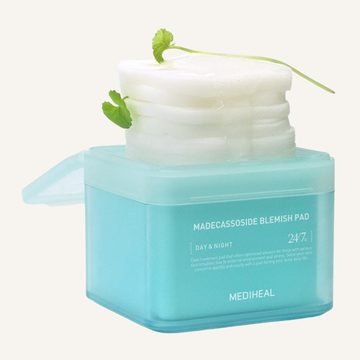
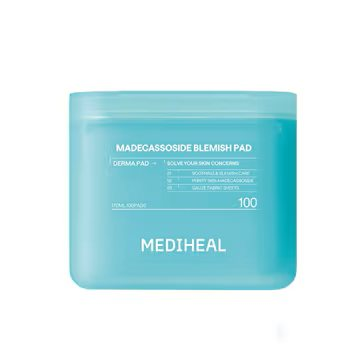
Actualizar fotos de 26 productos (toners, ampollas y serums) con galeria de 2 imagenes
Se reemplazan las fotos placeholder por las imagenes reales para:
AXIS-Y Dark Spot Glow Serum/Toner y Spot Difference Treatment, Anua
7-Rice Ceramide Serum, Azelaic+Hyaluron, Green Lemon Vita C, Heartleaf
Soothing Ampoule, Niacinamide+TXA Serum y Peach 70% Niacin Serum,
Celimax Noni Ampoule, Medicube Collagen Glow Booster/Bubble Serum,
Exosome Shot Pore Serum, Pink PDRN One Day Serum, Zero Pore One-Day
Pack, Mediheal Madecassoside y Vitamide Pads, Round Lab Dokdo Toner,
y los 6 productos Skin1004 Centella Madagascar (Ampoule, Hyalu-Cica,
Hyalu-Cica Toner, Poremizing Fresh Ampoule, Poremizing Toner,
Tea-Trica Purifying Toner, Tea-Trica Relief Ampoule, Toning Toner).

diff --git a/js/catalog.js b/js/catalog.js
@@ -92,34 +92,34 @@ const CATALOG = [
   {key:"medicube-pdrn-niacinamide-milky-toner", name:"Medicube PDRN Pink Niacinamide Milky Toner", size:"150 ml", price:28700, retail:49000, img:"images/medicube-pdrn-niacinamide-milky-toner.jpg", images:["images/medicube-pdrn-niacinamide-milky-toner.jpg","images/medicube-pdrn-niacinamide-milky-toner-2.jpg"], benefit:"Tónico de rápida absorción con PDRN y niacinamida que hidrata, ilumina, unifica el tono y fortalece la barrera cutánea para un efecto glass skin.", skin:"Ideal para pieles secas, apagadas o sensibles.", ingredients:"PDRN de salmón, niacinamida, ceramida NP, pantenol y ácido hialurónico.", modo:"Después de la limpieza, aplicar con las manos o un algodón sobre el rostro y dar suaves toques hasta su completa absorción."},
   {key:"anua-peach77-niacin-essence-toner", name:"Anua Peach 77% Niacin Essence Toner", size:"250 ml", price:28650, retail:49000, img:"images/anua-peach77-niacin-essence-toner.jpg", images:["images/anua-peach77-niacin-essence-toner.jpg","images/anua-peach77-niacin-essence-toner-2.jpg"], benefit:"Tónico con esencia que hidrata, ilumina y mejora la textura para una piel suave y luminosa.", skin:"Para todo tipo de pieles.", ingredients:"Extracto de durazno (77%), niacinamida, ceramidas fermentadas y ácido hialurónico.", modo:"Aplicar después de la limpieza con las manos o un algodón y dar suaves toques hasta su absorción."},
   {key:"anua-rice-milky-toner", name:"Anua Rice Milky Toner", size:"250 ml", price:28450, retail:49000, img:"images/anua-rice-milky-toner.jpg", images:["images/anua-rice-milky-toner.jpg","images/anua-rice-milky-toner-2.jpg"], benefit:"Tónico lechoso que hidrata, ilumina y fortalece la barrera cutánea, dejando la piel suave y con un brillo natural.", skin:"Para todo tipo de pieles.", ingredients:"Agua de salvado de arroz (70%), ceramidas, niacinamida, pantenol y ácido hialurónico.", modo:"Aplicar después de la limpieza con las manos o un algodón y dar suaves toques hasta su completa absorción."},
-  {key:"mediheal-madecassoside-pads", name:"Mediheal Madecassoside Blemish Pads", size:"100 pads · 170 ml", price:36950, retail:59000, img:"images/mediheal-madecassoside-pads.jpg", benefit:"Pads faciales calmantes impregnados en esencia, diseñados para calmar la piel, reducir rojeces y mejorar imperfecciones mientras hidratan y fortalecen la barrera cutánea.", skin:"Ideal para pieles sensibles, mixtas, con rojeces y tendencia a imperfecciones.", ingredients:"Madecassoside (24%), centella asiática, pantenol, alantoína y ácido hialurónico.", modo:"Después de la limpieza, pasar un pad suavemente por el rostro evitando el contorno de ojos. También puede usarse como mascarilla localizada durante 5-10 minutos."},
-  {key:"mediheal-vitamide-pads", name:"Mediheal Vitamide Brightening Pads", size:"100 pads · 170 ml", price:36950, retail:59000, img:"images/mediheal-vitamide-pads.jpg", benefit:"Rico en vitamina C, aporta luminosidad a la vez que ayuda a combatir las imperfecciones.", skin:"Todo tipo de piel, especialmente opaca, con manchas o tono desigual.", ingredients:"Complejo Vitamide (vitaminas), niacinamida, pantenol, alantoína y ácido hialurónico.", modo:""},
-  {key:"skin1004-madagascar-poremizing-toner", name:"Skin1004 Centella Madagascar Poremizing Toner", size:"210 ml", price:19150, retail:35000, img:"images/skin1004-madagascar-poremizing-toner.jpg", benefit:"Exfoliante y purificante formulado con Centella Asiática de Madagascar y complejo 4-HA (AHA, BHA, PHA y LHA), diseñado para limpiar profundamente los poros, controlar el exceso de sebo y mejorar la textura de la piel.", skin:"Ideal para pieles mixtas, grasas, con poros visibles y textura irregular.", ingredients:"Centella asiática de Madagascar, sal rosa del Himalaya, AHA, PHA, pantenol y ácido hialurónico.", modo:""},
-  {key:"skin1004-madagascar-teatrica-purifying-toner", name:"Skin1004 Centella Madagascar Tea-Trica Purifying Toner", size:"210 ml", price:19150, retail:35000, img:"images/skin1004-madagascar-teatrica-purifying-toner.jpg", benefit:"Tónico facial purificante que ayuda a equilibrar el exceso de grasa, calmar la piel y mantener los poros limpios, dejando una sensación de frescura.", skin:"Para piel grasa, mixta, con tendencia acneica y sensible.", ingredients:"Extracto de Centella Asiática, agua de árbol de té, complejo Tea-Trica, niacinamida y ácido salicílico (BHA).", modo:"Aplicar una cantidad adecuada sobre un algodón o directamente con las manos sobre el rostro limpio, dando suaves toques hasta su completa absorción."},
-  {key:"skin1004-madagascar-hyalucica-toner", name:"Skin1004 Centella Madagascar Hyalu-Cica Toner", size:"210 ml", price:19150, retail:35000, img:"images/skin1004-madagascar-hyalucica-toner.jpg", benefit:"Hidratante y calmante que combina Centella Asiática de Madagascar con ácido hialurónico, diseñado para hidratar en profundidad, calmar la piel y reforzar la barrera cutánea.", skin:"Ideal para pieles que necesitan hidratación constante sin saturarse.", ingredients:"Centella asiática de Madagascar, complejo Hyalu-Cica (ácido hialurónico + centella), niacinamida, ceramidas y pantenol.", modo:""},
-  {key:"skin1004-madagascar-toning-toner", name:"Skin1004 Centella Madagascar Toning Toner", size:"210 ml", price:19150, retail:35000, img:"images/skin1004-madagascar-toning-toner.jpg", benefit:"Tónico exfoliante suave. Hidrata, calma la irritación y mejora la textura al eliminar células muertas, dejando la piel radiante y equilibrada.", skin:"Ideal para pieles sensibles.", ingredients:"Centella asiática de Madagascar, PHA (gluconolactona), niacinamida, ácido hialurónico y pantenol.", modo:"Aplicar una cantidad adecuada sobre un algodón o directamente con las manos sobre el rostro limpio, dando suaves toques hasta su completa absorción."},
-  {key:"roundlab-dokdo-toner", name:"Round Lab 1025 Dokdo Toner", size:"200 ml", price:17150, retail:30000, img:"images/roundlab-dokdo-toner.jpg", benefit:"Textura acuosa ultra ligera, formulado con agua de mar profunda rica en minerales. Ayuda a hidratar, calmar y equilibrar la piel sin dejar sensación pesada. Elimina suavemente células muertas, dejando la piel fresca, suave y revitalizada.", skin:"Ideal para pieles sensibles, deshidratadas y mixtas.", ingredients:"Agua de mar profunda (magnesio, calcio, zinc), pantenol, alantoína, betaína y protease (enzima).", modo:"Aplicar después de la limpieza con las manos o un algodón y distribuir suavemente sobre el rostro hasta su completa absorción."},
-  {key:"axisy-darkspot-glow-toner", name:"AXIS-Y Dark Spot Correcting Glow Toner", size:"125 ml", price:27100, retail:49000, img:"images/axisy-darkspot-glow-toner.jpg", benefit:"Tónico facial iluminador que ayuda a hidratar, unificar el tono de la piel y reducir la apariencia de manchas, dejando un acabado radiante y saludable.", skin:"Para piel normal, seca, mixta, grasa y con manchas o tono desigual.", ingredients:"Glutatión, niacinamida al 5%, ácido hialurónico, extracto de corteza de sauce blanco y pantenol.", modo:"Aplicar una cantidad adecuada sobre el rostro limpio con las manos o un algodón, dando suaves toques hasta su completa absorción."},
+  {key:"mediheal-madecassoside-pads", name:"Mediheal Madecassoside Blemish Pads", size:"100 pads · 170 ml", price:36950, retail:59000, img:"images/mediheal-madecassoside-pads.jpg", images:["images/mediheal-madecassoside-pads.jpg","images/mediheal-madecassoside-pads-2.jpg"], benefit:"Pads faciales calmantes impregnados en esencia, diseñados para calmar la piel, reducir rojeces y mejorar imperfecciones mientras hidratan y fortalecen la barrera cutánea.", skin:"Ideal para pieles sensibles, mixtas, con rojeces y tendencia a imperfecciones.", ingredients:"Madecassoside (24%), centella asiática, pantenol, alantoína y ácido hialurónico.", modo:"Después de la limpieza, pasar un pad suavemente por el rostro evitando el contorno de ojos. También puede usarse como mascarilla localizada durante 5-10 minutos."},
+  {key:"mediheal-vitamide-pads", name:"Mediheal Vitamide Brightening Pads", size:"100 pads · 170 ml", price:36950, retail:59000, img:"images/mediheal-vitamide-pads.jpg", images:["images/mediheal-vitamide-pads.jpg","images/mediheal-vitamide-pads-2.jpg"], benefit:"Rico en vitamina C, aporta luminosidad a la vez que ayuda a combatir las imperfecciones.", skin:"Todo tipo de piel, especialmente opaca, con manchas o tono desigual.", ingredients:"Complejo Vitamide (vitaminas), niacinamida, pantenol, alantoína y ácido hialurónico.", modo:""},
+  {key:"skin1004-madagascar-poremizing-toner", name:"Skin1004 Centella Madagascar Poremizing Toner", size:"210 ml", price:19150, retail:35000, img:"images/skin1004-madagascar-poremizing-toner.jpg", images:["images/skin1004-madagascar-poremizing-toner.jpg","images/skin1004-madagascar-poremizing-toner-2.jpg"], benefit:"Exfoliante y purificante formulado con Centella Asiática de Madagascar y complejo 4-HA (AHA, BHA, PHA y LHA), diseñado para limpiar profundamente los poros, controlar el exceso de sebo y mejorar la textura de la piel.", skin:"Ideal para pieles mixtas, grasas, con poros visibles y textura irregular.", ingredients:"Centella asiática de Madagascar, sal rosa del Himalaya, AHA, PHA, pantenol y ácido hialurónico.", modo:""},
+  {key:"skin1004-madagascar-teatrica-purifying-toner", name:"Skin1004 Centella Madagascar Tea-Trica Purifying Toner", size:"210 ml", price:19150, retail:35000, img:"images/skin1004-madagascar-teatrica-purifying-toner.jpg", images:["images/skin1004-madagascar-teatrica-purifying-toner.jpg","images/skin1004-madagascar-teatrica-purifying-toner-2.jpg"], benefit:"Tónico facial purificante que ayuda a equilibrar el exceso de grasa, calmar la piel y mantener los poros limpios, dejando una sensación de frescura.", skin:"Para piel grasa, mixta, con tendencia acneica y sensible.", ingredients:"Extracto de Centella Asiática, agua de árbol de té, complejo Tea-Trica, niacinamida y ácido salicílico (BHA).", modo:"Aplicar una cantidad adecuada sobre un algodón o directamente con las manos sobre el rostro limpio, dando suaves toques hasta su completa absorción."},
+  {key:"skin1004-madagascar-hyalucica-toner", name:"Skin1004 Centella Madagascar Hyalu-Cica Toner", size:"210 ml", price:19150, retail:35000, img:"images/skin1004-madagascar-hyalucica-toner.jpg", images:["images/skin1004-madagascar-hyalucica-toner.jpg","images/skin1004-madagascar-hyalucica-toner-2.jpg"], benefit:"Hidratante y calmante que combina Centella Asiática de Madagascar con ácido hialurónico, diseñado para hidratar en profundidad, calmar la piel y reforzar la barrera cutánea.", skin:"Ideal para pieles que necesitan hidratación constante sin saturarse.", ingredients:"Centella asiática de Madagascar, complejo Hyalu-Cica (ácido hialurónico + centella), niacinamida, ceramidas y pantenol.", modo:""},
+  {key:"skin1004-madagascar-toning-toner", name:"Skin1004 Centella Madagascar Toning Toner", size:"210 ml", price:19150, retail:35000, img:"images/skin1004-madagascar-toning-toner.jpg", images:["images/skin1004-madagascar-toning-toner.jpg","images/skin1004-madagascar-toning-toner-2.jpg"], benefit:"Tónico exfoliante suave. Hidrata, calma la irritación y mejora la textura al eliminar células muertas, dejando la piel radiante y equilibrada.", skin:"Ideal para pieles sensibles.", ingredients:"Centella asiática de Madagascar, PHA (gluconolactona), niacinamida, ácido hialurónico y pantenol.", modo:"Aplicar una cantidad adecuada sobre un algodón o directamente con las manos sobre el rostro limpio, dando suaves toques hasta su completa absorción."},
+  {key:"roundlab-dokdo-toner", name:"Round Lab 1025 Dokdo Toner", size:"200 ml", price:17150, retail:30000, img:"images/roundlab-dokdo-toner.jpg", images:["images/roundlab-dokdo-toner.jpg","images/roundlab-dokdo-toner-2.jpg"], benefit:"Textura acuosa ultra ligera, formulado con agua de mar profunda rica en minerales. Ayuda a hidratar, calmar y equilibrar la piel sin dejar sensación pesada. Elimina suavemente células muertas, dejando la piel fresca, suave y revitalizada.", skin:"Ideal para pieles sensibles, deshidratadas y mixtas.", ingredients:"Agua de mar profunda (magnesio, calcio, zinc), pantenol, alantoína, betaína y protease (enzima).", modo:"Aplicar después de la limpieza con las manos o un algodón y distribuir suavemente sobre el rostro hasta su completa absorción."},
+  {key:"axisy-darkspot-glow-toner", name:"AXIS-Y Dark Spot Correcting Glow Toner", size:"125 ml", price:27100, retail:49000, img:"images/axisy-darkspot-glow-toner.jpg", images:["images/axisy-darkspot-glow-toner.jpg","images/axisy-darkspot-glow-toner-2.jpg"], benefit:"Tónico facial iluminador que ayuda a hidratar, unificar el tono de la piel y reducir la apariencia de manchas, dejando un acabado radiante y saludable.", skin:"Para piel normal, seca, mixta, grasa y con manchas o tono desigual.", ingredients:"Glutatión, niacinamida al 5%, ácido hialurónico, extracto de corteza de sauce blanco y pantenol.", modo:"Aplicar una cantidad adecuada sobre el rostro limpio con las manos o un algodón, dando suaves toques hasta su completa absorción."},
 ]},
 { n:"04", title:"Serums", items:[
-  {key:"medicube-zeropore-oneday-pack", name:"Medicube Zero Pore One-Day Pack ×2", size:"30 ml", price:34800, retail:65000, img:"images/medicube-zeropore-oneday-pack.jpg", benefit:"Minimiza los poros, exfolia suavemente y mejora la textura de la piel con una limpieza profunda.", skin:"Para todo tipo de pieles, especialmente con poros dilatados y puntos negros.", ingredients:"AHA, BHA, PHA, niacinamida, pantenol y ácido hialurónico.", modo:""},
-  {key:"medicube-exosome-shot-pore-serum", name:"Medicube One Day Exosome Shot Pore Serum", size:"30 ml", price:27250, retail:45000, img:"images/medicube-exosome-shot-pore-serum.jpg", benefit:"Revitaliza la piel, mejora la firmeza, unifica el tono y minimiza los poros sin sensación pegajosa.", skin:"Para pieles grasas, mixtas, con poros dilatados, puntos negros o acné leve.", ingredients:"Exosomas, niacinamida, PDRN, péptidos y ácido hialurónico.", modo:""},
-  {key:"medicube-pink-pdrn-oneday-serum", name:"Medicube Pink PDRN One Day Serum", size:"10 ampollas · 15 ml", price:21800, retail:40000, img:"images/medicube-pink-pdrn-oneday-serum.jpg", benefit:"Proporciona luminosidad e hidratación. Piel fresca y radiante, sin sensación pegajosa.", skin:"Para todo tipo de piel.", ingredients:"PDRN (ADN de salmón), niacinamida, ácido hialurónico, colágeno y pantenol.", modo:""},
-  {key:"anua-peach70-niacin-serum", name:"Anua Peach 70% Niacin Serum", size:"30 ml", price:19200, retail:39000, img:"images/anua-peach70-niacin-serum.jpg", benefit:"Actúa sobre los signos visibles de la hiperpigmentación, ayudando a reducir manchas oscuras, controlar el exceso de sebo y mejorar la textura de la piel. Ilumina el rostro, unifica el tono y deja la piel más suave y equilibrada.", skin:"Ideal para pieles apagadas y con manchas.", ingredients:"Niacinamida, ácido tranexámico, Zinc PCA, pantenol, betaína y extracto de centella asiática.", modo:"Aplicar unas gotas sobre el rostro limpio y masajear hasta su absorción."},
-  {key:"skin1004-madagascar-ampoule", name:"Skin1004 Centella Madagascar Ampoule", size:"100 ml", price:21200, retail:39000, img:"images/skin1004-madagascar-ampoule.jpg", benefit:"Hidrata profundamente, fortalece la barrera cutánea y ayuda a reducir rojeces, inflamación y marcas de acné.", skin:"Ideal para pieles sensibles, irritadas o enrojecidas.", ingredients:"Extracto de centella asiática de Madagascar (100%).", modo:""},
-  {key:"skin1004-madagascar-hyalucica-100", name:"Skin1004 Centella Madagascar Hyalu-Cica", size:"100 ml", price:21200, retail:39000, img:"images/skin1004-madagascar-hyalucica-100.jpg", benefit:"Combina extracto de centella asiática (calmante) y ácido hialurónico (hidratante) para calmar, hidratar profundamente y reparar la barrera cutánea.", skin:"Ideal para pieles sensibles y secas.", ingredients:"Complejo Hyalu-Cica (ácido hialurónico + centella de Madagascar), niacinamida, ceramidas y pantenol.", modo:""},
-  {key:"skin1004-madagascar-teatrica-relief-ampoule", name:"Skin1004 Centella Madagascar Tea-Trica Relief Ampoule", size:"100 ml", price:21200, retail:39000, img:"images/skin1004-madagascar-teatrica-relief-ampoule.jpg", benefit:"Sérum que calma la piel, reduce la inflamación y las rojeces, y controla el exceso de sebo sin obstruir los poros.", skin:"Ideal para pieles propensas al acné, sensibles o grasas.", ingredients:"Centella asiática de Madagascar (55%), agua de árbol de té, agua de pino, complejo Tea-Trica y pantenol.", modo:"Aplicar unas gotas sobre el rostro limpio y masajear hasta su absorción."},
-  {key:"skin1004-madagascar-poremizing-fresh-ampoule", name:"Skin1004 Centella Madagascar Poremizing Fresh Ampoule", size:"100 ml", price:21200, retail:39000, img:"images/skin1004-madagascar-poremizing-fresh-ampoule.jpg", benefit:"Suero ligero que minimiza los poros, controla el exceso de grasa y calma la piel mientras aporta hidratación y elasticidad.", skin:"Ideal para pieles mixtas a grasas, hipoalergénico.", ingredients:"Extracto de Centella Asiática de Madagascar, sal rosa del Himalaya y péptidos.", modo:"Aplicar unas gotas sobre el rostro limpio y masajear hasta su absorción."},
-  {key:"anua-heartleaf-soothing-ampoule", name:"Anua Heartleaf Soothing Ampoule", size:"30 ml", price:22300, retail:45000, img:"images/anua-heartleaf-soothing-ampoule.jpg", benefit:"Ampolla acuosa con una base de Heartleaf para aliviar la piel reduciendo rojeces y calmando inflamaciones.", skin:"Ideal para pieles con rojeces o acné activo, tirantes o deshidratadas.", ingredients:"80% de extracto de Heartleaf para calmar la irritación, y pantenol para reparar la barrera cutánea, hidratar y proteger.", modo:""},
-  {key:"anua-niacinamide10-txa4-serum", name:"Anua Niacinamide 10% + TXA 4% Serum", size:"30 ml", price:21850, retail:39000, img:"images/anua-niacinamide10-txa4-serum.jpg", benefit:"Unifica el tono de la piel, reduce manchas oscuras y mejora visiblemente la luminosidad. Hidrata y fortalece la barrera cutánea.", skin:"Para todo tipo de piel con tono desigual, manchas o rojeces.", ingredients:"10% de niacinamida, 4% de ácido tranexámico y ácido hialurónico.", modo:"Aplicar unas gotas sobre el rostro limpio y masajear hasta su absorción."},
-  {key:"anua-7rice-ceramide-serum", name:"Anua 7-Rice Ceramide Hydrating Serum", size:"50 ml", price:28550, retail:49000, img:"images/anua-7rice-ceramide-serum.jpg", benefit:"Hidrata en profundidad, refuerza la barrera cutánea, mejora la textura y luminosidad del rostro. Calma, nutre y protege la piel, sin sensación grasa.", skin:"Ideal para pieles secas, sensibles o con barrera debilitada.", ingredients:"Extracto de arroz, ceramidas, niacinamida y ácido hialurónico.", modo:"Aplicar unas gotas sobre el rostro limpio, preferentemente por la mañana, seguido de protector solar."},
-  {key:"anua-green-lemon-vitac20", name:"Anua Green Lemon Vita C 20%", size:"20 ml", price:24550, retail:45000, img:"images/anua-green-lemon-vitac20.jpg", benefit:"Hidrata profundamente, fortalece la barrera cutánea, mejora la textura e ilumina la piel con un acabado radiante y sin sensación grasa.", skin:"Para pieles normales, mixtas, opacas y con manchas.", ingredients:"20% de vitamina C, extracto de limón verde, niacinamida y glutatión.", modo:""},
-  {key:"anua-azelaic10-hyaluron10", name:"Anua Azelaic Acid 10% + Hyaluron 10%", size:"30 ml", price:21550, retail:39000, img:"images/anua-azelaic10-hyaluron10.jpg", benefit:"Sérum calmante con 10% de ácido azelaico y ácido hialurónico que reduce rojeces, unifica el tono e hidrata la piel.", skin:"Ideal para pieles sensibles, con rojeces, manchas o textura irregular.", ingredients:"10% de ácido azelaico, complejo Hyaluron 10 y pantenol.", modo:""},
-  {key:"axisy-spot-difference-treatment", name:"AXIS-Y The Spot Difference Blemish Treatment", size:"15 ml", price:25100, retail:45000, img:"images/axisy-spot-difference-treatment.jpg", benefit:"Tratamiento localizado para granitos que ayuda a reducir imperfecciones, calmar la inflamación y favorecer una piel más uniforme.", skin:"Para piel grasa, mixta, con tendencia acneica y sensible.", ingredients:"4-Terpineol, niacinamida al 2%, AHA, BHA y ceramidas.", modo:"Aplicar una pequeña cantidad directamente sobre la imperfección después de la limpieza y antes de la crema hidratante, dejando que se absorba por completo."},
-  {key:"axisy-darkspot-glow-serum", name:"AXIS-Y Dark Spot Correcting Glow Serum", size:"50 ml", price:18400, retail:39000, img:"images/axisy-darkspot-glow-serum.jpg", benefit:"Sérum facial iluminador que ayuda a reducir la apariencia de manchas, unificar el tono de la piel y aportar hidratación para un acabado radiante.", skin:"Para piel normal, seca, mixta, grasa y con manchas o tono desigual.", ingredients:"Niacinamida al 5%, escualano vegetal, extracto de espino amarillo (Hippophae Rhamnoides), extracto de arroz y alantoína.", modo:"Aplicar una pequeña cantidad sobre el rostro limpio después del tónico y masajear suavemente hasta su completa absorción."},
-  {key:"medicube-collagen-glow-bubble-serum", name:"Medicube Collagen Glow Bubble Serum", size:"100 ml", price:28250, retail:49000, img:"images/medicube-collagen-glow-bubble-serum.jpg", benefit:"Sérum facial en espuma que hidrata, mejora la elasticidad de la piel y aporta un brillo saludable con una textura ligera y de rápida absorción.", skin:"Para piel normal, seca, mixta, grasa y madura.", ingredients:"Complejo Collagen-11, colágeno hidrolizado, niacinamida, ácido hialurónico y adenosina.", modo:"Aplicar una o dos dosis sobre el rostro limpio después del tónico y masajear suavemente hasta su completa absorción."},
-  {key:"medicube-collagen-glow-booster-serum", name:"Medicube Collagen Glow Booster Serum", size:"15 ml", price:27800, retail:49000, img:"images/medicube-collagen-glow-booster-serum.jpg", benefit:"Sérum facial concentrado que hidrata, mejora la firmeza de la piel y aporta luminosidad para un aspecto más suave y revitalizado.", skin:"Para piel normal, seca, mixta, grasa y madura.", ingredients:"Colágeno hidrolizado, complejo Collagen-11, niacinamida, ácido hialurónico y adenosina.", modo:"Aplicar una pequeña cantidad sobre el rostro limpio después del tónico y masajear suavemente hasta su completa absorción."},
-  {key:"celimax-noni-ampoule", name:"Celimax Noni Ampoule Calming + Radiance", size:"50 ml", price:24600, retail:49000, img:"images/celimax-noni-ampoule.jpg", benefit:"Ampoule facial que calma, hidrata y aporta luminosidad a la piel, ayudando a fortalecer la barrera cutánea y mejorar su apariencia.", skin:"Para piel normal, seca, mixta, grasa, sensible y opaca.", ingredients:"Extracto de noni, Noni Energy™, pantenol, colágeno y ácido hialurónico.", modo:"Aplicar unas gotas sobre el rostro limpio después del tónico y masajear suavemente hasta su completa absorción."},
+  {key:"medicube-zeropore-oneday-pack", name:"Medicube Zero Pore One-Day Pack ×2", size:"30 ml", price:34800, retail:65000, img:"images/medicube-zeropore-oneday-pack.jpg", images:["images/medicube-zeropore-oneday-pack.jpg","images/medicube-zeropore-oneday-pack-2.jpg"], benefit:"Minimiza los poros, exfolia suavemente y mejora la textura de la piel con una limpieza profunda.", skin:"Para todo tipo de pieles, especialmente con poros dilatados y puntos negros.", ingredients:"AHA, BHA, PHA, niacinamida, pantenol y ácido hialurónico.", modo:""},
+  {key:"medicube-exosome-shot-pore-serum", name:"Medicube One Day Exosome Shot Pore Serum", size:"30 ml", price:27250, retail:45000, img:"images/medicube-exosome-shot-pore-serum.jpg", images:["images/medicube-exosome-shot-pore-serum.jpg","images/medicube-exosome-shot-pore-serum-2.jpg"], benefit:"Revitaliza la piel, mejora la firmeza, unifica el tono y minimiza los poros sin sensación pegajosa.", skin:"Para pieles grasas, mixtas, con poros dilatados, puntos negros o acné leve.", ingredients:"Exosomas, niacinamida, PDRN, péptidos y ácido hialurónico.", modo:""},
+  {key:"medicube-pink-pdrn-oneday-serum", name:"Medicube Pink PDRN One Day Serum", size:"10 ampollas · 15 ml", price:21800, retail:40000, img:"images/medicube-pink-pdrn-oneday-serum.jpg", images:["images/medicube-pink-pdrn-oneday-serum.jpg","images/medicube-pink-pdrn-oneday-serum-2.jpg"], benefit:"Proporciona luminosidad e hidratación. Piel fresca y radiante, sin sensación pegajosa.", skin:"Para todo tipo de piel.", ingredients:"PDRN (ADN de salmón), niacinamida, ácido hialurónico, colágeno y pantenol.", modo:""},
+  {key:"anua-peach70-niacin-serum", name:"Anua Peach 70% Niacin Serum", size:"30 ml", price:19200, retail:39000, img:"images/anua-peach70-niacin-serum.jpg", images:["images/anua-peach70-niacin-serum.jpg","images/anua-peach70-niacin-serum-2.jpg"], benefit:"Actúa sobre los signos visibles de la hiperpigmentación, ayudando a reducir manchas oscuras, controlar el exceso de sebo y mejorar la textura de la piel. Ilumina el rostro, unifica el tono y deja la piel más suave y equilibrada.", skin:"Ideal para pieles apagadas y con manchas.", ingredients:"Niacinamida, ácido tranexámico, Zinc PCA, pantenol, betaína y extracto de centella asiática.", modo:"Aplicar unas gotas sobre el rostro limpio y masajear hasta su absorción."},
+  {key:"skin1004-madagascar-ampoule", name:"Skin1004 Centella Madagascar Ampoule", size:"100 ml", price:21200, retail:39000, img:"images/skin1004-madagascar-ampoule.jpg", images:["images/skin1004-madagascar-ampoule.jpg","images/skin1004-madagascar-ampoule-2.jpg"], benefit:"Hidrata profundamente, fortalece la barrera cutánea y ayuda a reducir rojeces, inflamación y marcas de acné.", skin:"Ideal para pieles sensibles, irritadas o enrojecidas.", ingredients:"Extracto de centella asiática de Madagascar (100%).", modo:""},
+  {key:"skin1004-madagascar-hyalucica-100", name:"Skin1004 Centella Madagascar Hyalu-Cica", size:"100 ml", price:21200, retail:39000, img:"images/skin1004-madagascar-hyalucica-100.jpg", images:["images/skin1004-madagascar-hyalucica-100.jpg","images/skin1004-madagascar-hyalucica-100-2.jpg"], benefit:"Combina extracto de centella asiática (calmante) y ácido hialurónico (hidratante) para calmar, hidratar profundamente y reparar la barrera cutánea.", skin:"Ideal para pieles sensibles y secas.", ingredients:"Complejo Hyalu-Cica (ácido hialurónico + centella de Madagascar), niacinamida, ceramidas y pantenol.", modo:""},
+  {key:"skin1004-madagascar-teatrica-relief-ampoule", name:"Skin1004 Centella Madagascar Tea-Trica Relief Ampoule", size:"100 ml", price:21200, retail:39000, img:"images/skin1004-madagascar-teatrica-relief-ampoule.jpg", images:["images/skin1004-madagascar-teatrica-relief-ampoule.jpg","images/skin1004-madagascar-teatrica-relief-ampoule-2.jpg"], benefit:"Sérum que calma la piel, reduce la inflamación y las rojeces, y controla el exceso de sebo sin obstruir los poros.", skin:"Ideal para pieles propensas al acné, sensibles o grasas.", ingredients:"Centella asiática de Madagascar (55%), agua de árbol de té, agua de pino, complejo Tea-Trica y pantenol.", modo:"Aplicar unas gotas sobre el rostro limpio y masajear hasta su absorción."},
+  {key:"skin1004-madagascar-poremizing-fresh-ampoule", name:"Skin1004 Centella Madagascar Poremizing Fresh Ampoule", size:"100 ml", price:21200, retail:39000, img:"images/skin1004-madagascar-poremizing-fresh-ampoule.jpg", images:["images/skin1004-madagascar-poremizing-fresh-ampoule.jpg","images/skin1004-madagascar-poremizing-fresh-ampoule-2.jpg"], benefit:"Suero ligero que minimiza los poros, controla el exceso de grasa y calma la piel mientras aporta hidratación y elasticidad.", skin:"Ideal para pieles mixtas a grasas, hipoalergénico.", ingredients:"Extracto de Centella Asiática de Madagascar, sal rosa del Himalaya y péptidos.", modo:"Aplicar unas gotas sobre el rostro limpio y masajear hasta su absorción."},
+  {key:"anua-heartleaf-soothing-ampoule", name:"Anua Heartleaf Soothing Ampoule", size:"30 ml", price:22300, retail:45000, img:"images/anua-heartleaf-soothing-ampoule.jpg", images:["images/anua-heartleaf-soothing-ampoule.jpg","images/anua-heartleaf-soothing-ampoule-2.jpg"], benefit:"Ampolla acuosa con una base de Heartleaf para aliviar la piel reduciendo rojeces y calmando inflamaciones.", skin:"Ideal para pieles con rojeces o acné activo, tirantes o deshidratadas.", ingredients:"80% de extracto de Heartleaf para calmar la irritación, y pantenol para reparar la barrera cutánea, hidratar y proteger.", modo:""},
+  {key:"anua-niacinamide10-txa4-serum", name:"Anua Niacinamide 10% + TXA 4% Serum", size:"30 ml", price:21850, retail:39000, img:"images/anua-niacinamide10-txa4-serum.jpg", images:["images/anua-niacinamide10-txa4-serum.jpg","images/anua-niacinamide10-txa4-serum-2.jpg"], benefit:"Unifica el tono de la piel, reduce manchas oscuras y mejora visiblemente la luminosidad. Hidrata y fortalece la barrera cutánea.", skin:"Para todo tipo de piel con tono desigual, manchas o rojeces.", ingredients:"10% de niacinamida, 4% de ácido tranexámico y ácido hialurónico.", modo:"Aplicar unas gotas sobre el rostro limpio y masajear hasta su absorción."},
+  {key:"anua-7rice-ceramide-serum", name:"Anua 7-Rice Ceramide Hydrating Serum", size:"50 ml", price:28550, retail:49000, img:"images/anua-7rice-ceramide-serum.jpg", images:["images/anua-7rice-ceramide-serum.jpg","images/anua-7rice-ceramide-serum-2.jpg"], benefit:"Hidrata en profundidad, refuerza la barrera cutánea, mejora la textura y luminosidad del rostro. Calma, nutre y protege la piel, sin sensación grasa.", skin:"Ideal para pieles secas, sensibles o con barrera debilitada.", ingredients:"Extracto de arroz, ceramidas, niacinamida y ácido hialurónico.", modo:"Aplicar unas gotas sobre el rostro limpio, preferentemente por la mañana, seguido de protector solar."},
+  {key:"anua-green-lemon-vitac20", name:"Anua Green Lemon Vita C 20%", size:"20 ml", price:24550, retail:45000, img:"images/anua-green-lemon-vitac20.jpg", images:["images/anua-green-lemon-vitac20.jpg","images/anua-green-lemon-vitac20-2.jpg"], benefit:"Hidrata profundamente, fortalece la barrera cutánea, mejora la textura e ilumina la piel con un acabado radiante y sin sensación grasa.", skin:"Para pieles normales, mixtas, opacas y con manchas.", ingredients:"20% de vitamina C, extracto de limón verde, niacinamida y glutatión.", modo:""},
+  {key:"anua-azelaic10-hyaluron10", name:"Anua Azelaic Acid 10% + Hyaluron 10%", size:"30 ml", price:21550, retail:39000, img:"images/anua-azelaic10-hyaluron10.jpg", images:["images/anua-azelaic10-hyaluron10.jpg","images/anua-azelaic10-hyaluron10-2.jpg"], benefit:"Sérum calmante con 10% de ácido azelaico y ácido hialurónico que reduce rojeces, unifica el tono e hidrata la piel.", skin:"Ideal para pieles sensibles, con rojeces, manchas o textura irregular.", ingredients:"10% de ácido azelaico, complejo Hyaluron 10 y pantenol.", modo:""},
+  {key:"axisy-spot-difference-treatment", name:"AXIS-Y The Spot Difference Blemish Treatment", size:"15 ml", price:25100, retail:45000, img:"images/axisy-spot-difference-treatment.jpg", images:["images/axisy-spot-difference-treatment.jpg","images/axisy-spot-difference-treatment-2.jpg"], benefit:"Tratamiento localizado para granitos que ayuda a reducir imperfecciones, calmar la inflamación y favorecer una piel más uniforme.", skin:"Para piel grasa, mixta, con tendencia acneica y sensible.", ingredients:"4-Terpineol, niacinamida al 2%, AHA, BHA y ceramidas.", modo:"Aplicar una pequeña cantidad directamente sobre la imperfección después de la limpieza y antes de la crema hidratante, dejando que se absorba por completo."},
+  {key:"axisy-darkspot-glow-serum", name:"AXIS-Y Dark Spot Correcting Glow Serum", size:"50 ml", price:18400, retail:39000, img:"images/axisy-darkspot-glow-serum.jpg", images:["images/axisy-darkspot-glow-serum.jpg","images/axisy-darkspot-glow-serum-2.jpg"], benefit:"Sérum facial iluminador que ayuda a reducir la apariencia de manchas, unificar el tono de la piel y aportar hidratación para un acabado radiante.", skin:"Para piel normal, seca, mixta, grasa y con manchas o tono desigual.", ingredients:"Niacinamida al 5%, escualano vegetal, extracto de espino amarillo (Hippophae Rhamnoides), extracto de arroz y alantoína.", modo:"Aplicar una pequeña cantidad sobre el rostro limpio después del tónico y masajear suavemente hasta su completa absorción."},
+  {key:"medicube-collagen-glow-bubble-serum", name:"Medicube Collagen Glow Bubble Serum", size:"100 ml", price:28250, retail:49000, img:"images/medicube-collagen-glow-bubble-serum.jpg", images:["images/medicube-collagen-glow-bubble-serum.jpg","images/medicube-collagen-glow-bubble-serum-2.jpg"], benefit:"Sérum facial en espuma que hidrata, mejora la elasticidad de la piel y aporta un brillo saludable con una textura ligera y de rápida absorción.", skin:"Para piel normal, seca, mixta, grasa y madura.", ingredients:"Complejo Collagen-11, colágeno hidrolizado, niacinamida, ácido hialurónico y adenosina.", modo:"Aplicar una o dos dosis sobre el rostro limpio después del tónico y masajear suavemente hasta su completa absorción."},
+  {key:"medicube-collagen-glow-booster-serum", name:"Medicube Collagen Glow Booster Serum", size:"15 ml", price:27800, retail:49000, img:"images/medicube-collagen-glow-booster-serum.jpg", images:["images/medicube-collagen-glow-booster-serum.jpg","images/medicube-collagen-glow-booster-serum-2.jpg"], benefit:"Sérum facial concentrado que hidrata, mejora la firmeza de la piel y aporta luminosidad para un aspecto más suave y revitalizado.", skin:"Para piel normal, seca, mixta, grasa y madura.", ingredients:"Colágeno hidrolizado, complejo Collagen-11, niacinamida, ácido hialurónico y adenosina.", modo:"Aplicar una pequeña cantidad sobre el rostro limpio después del tónico y masajear suavemente hasta su completa absorción."},
+  {key:"celimax-noni-ampoule", name:"Celimax Noni Ampoule Calming + Radiance", size:"50 ml", price:24600, retail:49000, img:"images/celimax-noni-ampoule.jpg", images:["images/celimax-noni-ampoule.jpg","images/celimax-noni-ampoule-2.jpg"], benefit:"Ampoule facial que calma, hidrata y aporta luminosidad a la piel, ayudando a fortalecer la barrera cutánea y mejorar su apariencia.", skin:"Para piel normal, seca, mixta, grasa, sensible y opaca.", ingredients:"Extracto de noni, Noni Energy™, pantenol, colágeno y ácido hialurónico.", modo:"Aplicar unas gotas sobre el rostro limpio después del tónico y masajear suavemente hasta su completa absorción."},
 ]},
 { n:"05", title:"Protectores solares", items:[
   {key:"tocobo-cotton-soft-sunstick", name:"Tocobo Cotton Soft Sun Stick SPF50+ PA++++", size:"19 gr", price:18550, retail:32000, img:"images/tocobo-cotton-soft-sunstick.jpg", benefit:"Acabado suave y mate a lo largo del día. Además, calma la piel y controla la producción de sebo con sus complejos herbales.", skin:"Ideales para pieles grasas, mixtas con brillo o exceso de sebo.", ingredients:"Extracto de algodón, sílice y filtros solares químicos.", modo:"Aplicar directamente sobre el rostro y reaplicar durante el día."},
